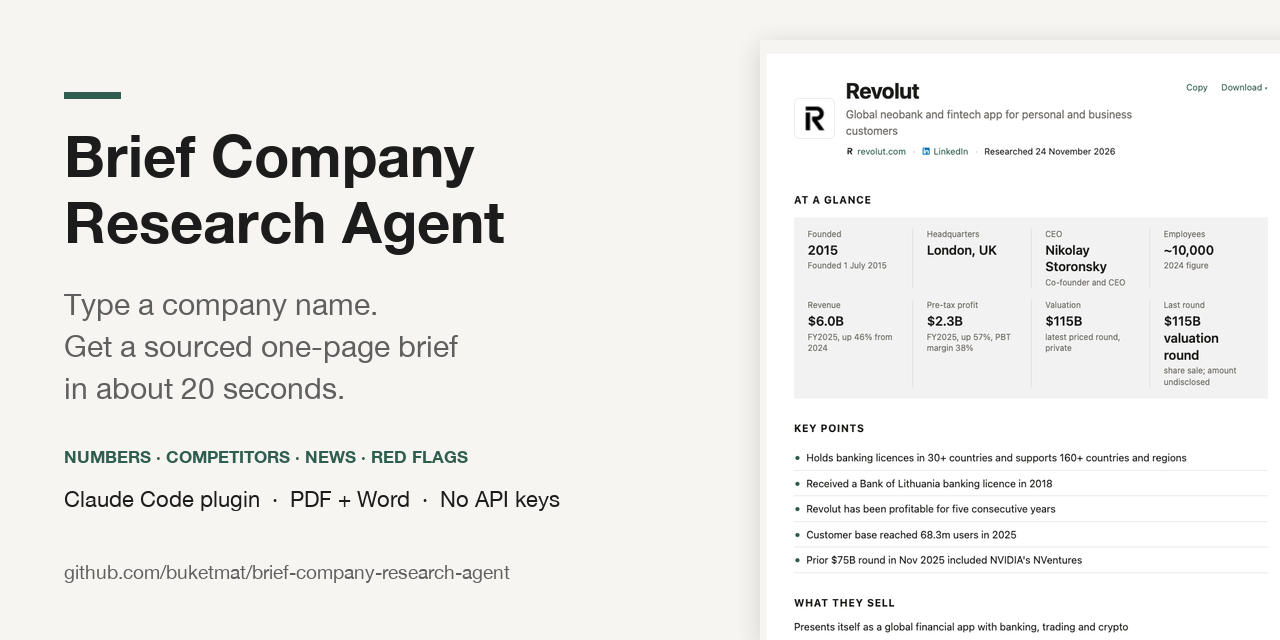
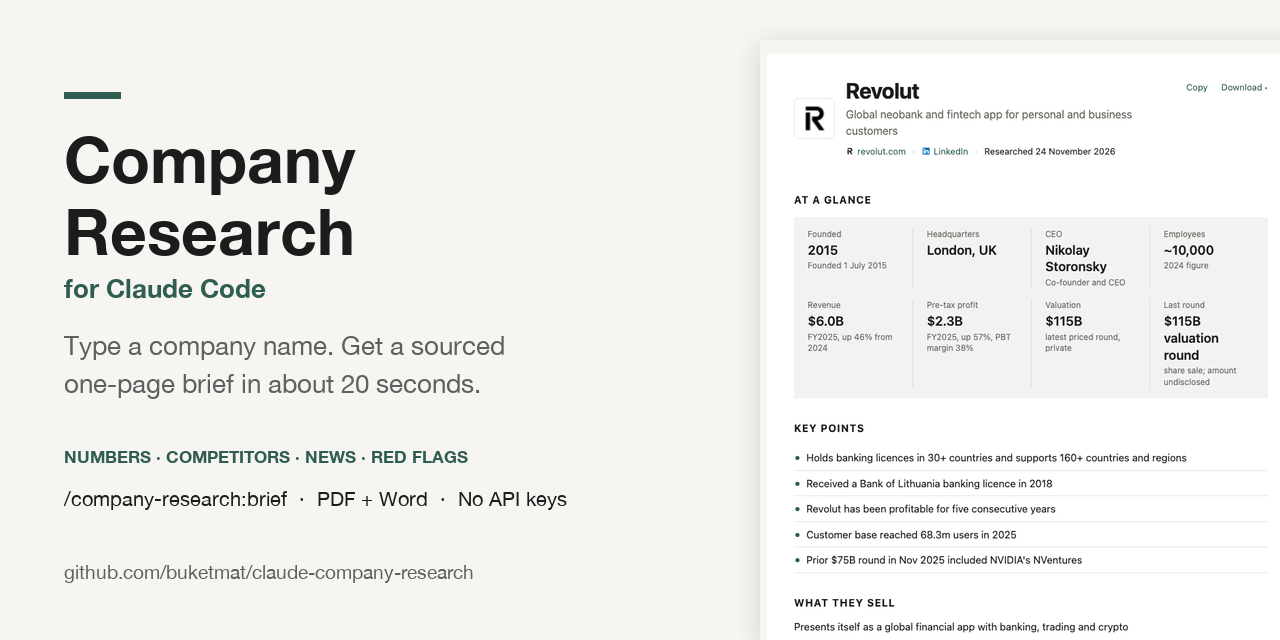
Rename to Company Research for Claude Code (/company-research:brief), 1.5.0
One plugin for company research: brief now, deep-dive planned.

diff --git a/examples/bolt/report.html b/examples/bolt/report.html
@@ -198,7 +198,7 @@ body.t-band .points li{border:0}body.t-band .kv{margin-top:6px}}
 @media (max-width:700px){body.t-band .tiles{grid-template-columns:1fr 1fr}body.t-band .tile{border:0}
 body.t-band .meta{gap:4px 14px}body.t-band .meta>*+*:before{display:none}
 body.t-band .prods,body.t-band .rivals{grid-template-columns:1fr}}
[2 lines of base64/hex data omitted]
 function copyBrief(btn){var t=document.querySelector('main').innerText.replace(/\n{3,}/g,'\n\n');
 navigator.clipboard.writeText(t).then(function(){btn.textContent='Copied';setTimeout(function(){btn.textContent='Copy'},1500)});}
 </script></body></html>

diff --git a/examples/linear/report.html b/examples/linear/report.html
@@ -198,7 +198,7 @@ body.t-band .points li{border:0}body.t-band .kv{margin-top:6px}}
 @media (max-width:700px){body.t-band .tiles{grid-template-columns:1fr 1fr}body.t-band .tile{border:0}
 body.t-band .meta{gap:4px 14px}body.t-band .meta>*+*:before{display:none}
 body.t-band .prods,body.t-band .rivals{grid-template-columns:1fr}}
[2 lines of base64/hex data omitted]
 function copyBrief(btn){var t=document.querySelector('main').innerText.replace(/\n{3,}/g,'\n\n');
 navigator.clipboard.writeText(t).then(function(){btn.textContent='Copied';setTimeout(function(){btn.textContent='Copy'},1500)});}
 </script></body></html>

diff --git a/examples/mastercard/report.html b/examples/mastercard/report.html
@@ -198,7 +198,7 @@ body.t-band .points li{border:0}body.t-band .kv{margin-top:6px}}
 @media (max-width:700px){body.t-band .tiles{grid-template-columns:1fr 1fr}body.t-band .tile{border:0}
 body.t-band .meta{gap:4px 14px}body.t-band .meta>*+*:before{display:none}
 body.t-band .prods,body.t-band .rivals{grid-template-columns:1fr}}
[2 lines of base64/hex data omitted]
 function copyBrief(btn){var t=document.querySelector('main').innerText.replace(/\n{3,}/g,'\n\n');
 navigator.clipboard.writeText(t).then(function(){btn.textContent='Copied';setTimeout(function(){btn.textContent='Copy'},1500)});}
 </script></body></html>

diff --git a/examples/revolut/report.html b/examples/revolut/report.html
@@ -198,7 +198,7 @@ body.t-band .points li{border:0}body.t-band .kv{margin-top:6px}}
 @media (max-width:700px){body.t-band .tiles{grid-template-columns:1fr 1fr}body.t-band .tile{border:0}
 body.t-band .meta{gap:4px 14px}body.t-band .meta>*+*:before{display:none}
 body.t-band .prods,body.t-band .rivals{grid-template-columns:1fr}}
[2 lines of base64/hex data omitted]
 function copyBrief(btn){var t=document.querySelector('main').innerText.replace(/\n{3,}/g,'\n\n');
 navigator.clipboard.writeText(t).then(function(){btn.textContent='Copied';setTimeout(function(){btn.textContent='Copy'},1500)});}
 </script></body></html>

diff --git a/skills/brief/scripts/report.py b/skills/brief/scripts/report.py
@@ -1163,7 +1163,7 @@ def render(run_dir, name, run_date, domain, data, elapsed, exports=None, pending
     return ('<!doctype html><html lang="en"><head><meta charset="utf-8">'
             '<meta name="viewport" content="width=device-width,initial-scale=1">'
             '<title>%s: company brief</title>%s<style>%s%s</style></head><body class="t-%s">'
-            '<div class="page">%s%s</div><footer>Built with the Brief Company Research Agent for Claude Code from the '
+            '<div class="page">%s%s</div><footer>Built with Company Research for Claude Code from the '
             'public sources listed. Gathered by AI: check anything important at the source.</footer>%s</body></html>') % (
         esc(name), '<meta http-equiv="refresh" content="1">' if pending else "", CSS,
         THEMES.get(theme or DEFAULT_THEME, ""), esc(theme or DEFAULT_THEME), main, aside, JS)
@@ -1299,7 +1299,7 @@ def export_docx(path, run_dir, name, run_date, domain, data):
     heading("Sources")
     for src in data["sources"]:
         bullet(link(src["url"], src["title"], 18), run("  " + src["host"], size=15, color="6D6A63"))
-    para(run("Built with the Brief Company Research Agent for Claude Code from the public sources listed. "
+    para(run("Built with Company Research for Claude Code from the public sources listed. "
              "Gathered by AI: check anything important at the source.", size=14, color="6D6A63"), after=0)
 
     W = 'xmlns:w="http://schemas.openxmlformats.org/wordprocessingml/2006/main" ' \

diff --git a/skills/brief/SKILL.md b/skills/brief/SKILL.md
@@ -1,12 +1,12 @@
 ---
 name: brief
-description: Brief company research: a short, sourced report on any company with its logo, red flags and PDF, Word and HTML downloads. Four fast agents search in parallel (the company itself, money, news, market and competitors); the report opens in the browser within seconds and fills in live as each agent finishes, complete in about 20 seconds. Use when the user types /brief-company-research-agent:brief, or asks for a company brief, or to research, profile, look up, vet or size up a company, startup, competitor, client or employer.
+description: Brief company research: a short, sourced report on any company with its logo, red flags and PDF, Word and HTML downloads. Four fast agents search in parallel (the company itself, money, news, market and competitors); the report opens in the browser within seconds and fills in live as each agent finishes, complete in about 20 seconds. Use when the user types /company-research:brief, or asks for a company brief, or to research, profile, look up, vet or size up a company, startup, competitor, client or employer.
 argument-hint: <company name or website>
 model: haiku
 effort: low
 ---
 
-# Brief Company Research Agent
+# Company Research: brief
 
 `S` = `${CLAUDE_SKILL_DIR}/scripts/report.py`. Run it with `python3`; if that command is missing (often on Windows), use `python`.
 
@@ -18,10 +18,10 @@ effort: low
 3. In **one message**, send all five calls together:
    - Bash with `run_in_background: true`: `python3 "S" run "D" "<Company name>" <YYYY-MM-DD> <domain>`
      It creates the folder, fetches the logo, opens a live report in the browser that fills in as each agent's file lands, then writes the final report, PDF and Word file by itself.
-   - Agent, `subagent_type: "brief-company-research-agent:cr-company"`
-   - Agent, `subagent_type: "brief-company-research-agent:cr-money"`
-   - Agent, `subagent_type: "brief-company-research-agent:cr-news"`
-   - Agent, `subagent_type: "brief-company-research-agent:cr-market"`
+   - Agent, `subagent_type: "company-research:cr-company"`
+   - Agent, `subagent_type: "company-research:cr-money"`
+   - Agent, `subagent_type: "company-research:cr-news"`
+   - Agent, `subagent_type: "company-research:cr-market"`
 
    The four agents run at the same time. Each agent prompt is just four lines: `Company: <name>`, `Domain: <domain>`, `Research date: <YYYY-MM-DD>`, `Output path: D/frag-<company|money|news|market>.json`.
 

diff --git a/README.md b/README.md
@@ -1,4 +1,4 @@
-# Brief Company Research Agent for Claude Code
+# Company Research for Claude Code
 
 **Type a company name. Get a sourced one-page brief in about 20 seconds.**
 
@@ -7,7 +7,7 @@
 ![Example report: a brief on Revolut with key figures, key points, competitors and sources](examples/report-screenshot.png)
 
 ```
-/brief-company-research-agent:brief Revolut
+/company-research:brief Revolut
 ```
 
 What it does, the numbers, main competitors, recent news and red flags. Four fast AI agents search in parallel, and the report opens in your browser right away and fills in live, with PDF and Word downloads. See more finished examples in [`examples/`](examples/).
@@ -19,17 +19,22 @@ What it does, the numbers, main competitors, recent news and red flags. Four fas
 In Claude Code, run:
 
 ```
-/plugin marketplace add buketmat/brief-company-research-agent
-/plugin install brief-company-research-agent@brief-company-research-agent
+/plugin marketplace add buketmat/claude-company-research
+/plugin install company-research@company-research
 ```
 
 Then restart Claude Code (or run `/reload-plugins`).
 
 ## Use
 
+| Command | What you get | Status |
+|---|---|---|
+| `/company-research:brief <company>` | A short, sourced snapshot in about 20 seconds | Available |
+| `/company-research:deep-dive <company>` | A full, in-depth company research report | Coming soon |
+
 ```
-/brief-company-research-agent:brief Mastercard
-/brief-company-research-agent:brief linear.app
+/company-research:brief Mastercard
+/company-research:brief linear.app
 ```
 
 Or just ask: *"Give me a brief on Revolut."*

diff --git a/skills/brief/DESIGN.md b/skills/brief/DESIGN.md
@@ -1,4 +1,4 @@
-# Brief Company Research Agent: approved look and feel
+# Company Research (brief): approved look and feel
 
 Approved on 2026-11-24. This is the standard look for the web report, the PDF and the Word file. Keep it exactly like this unless the owner asks for a change. It is built in `scripts/report.py` as the `band` theme, which is the default (`DEFAULT_THEME`).
 
